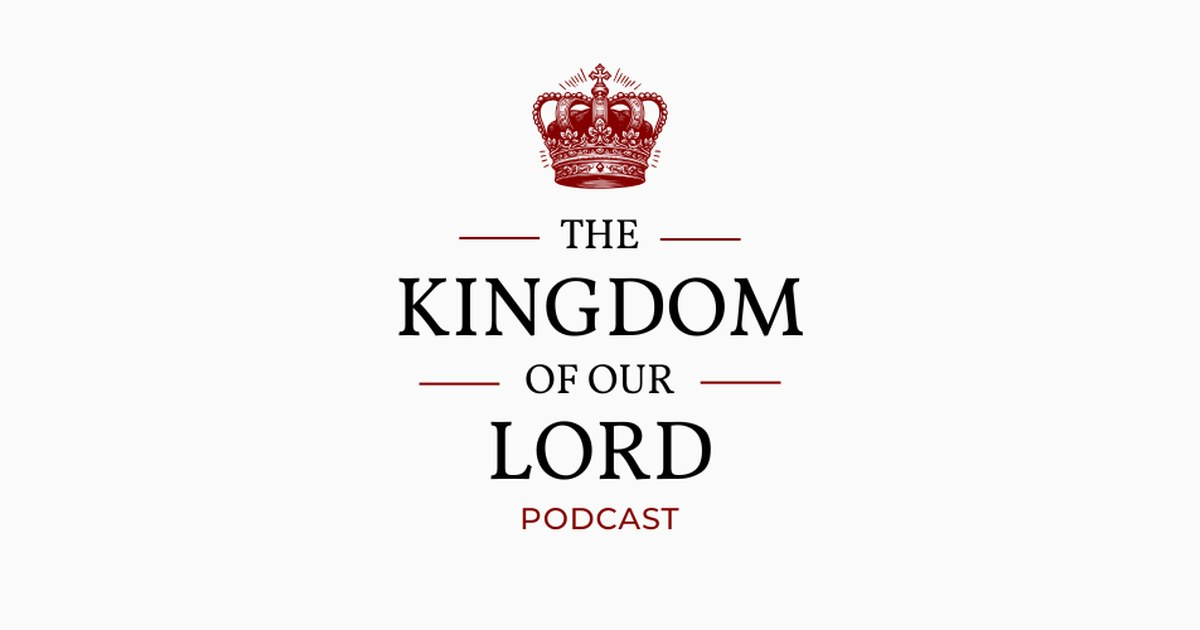
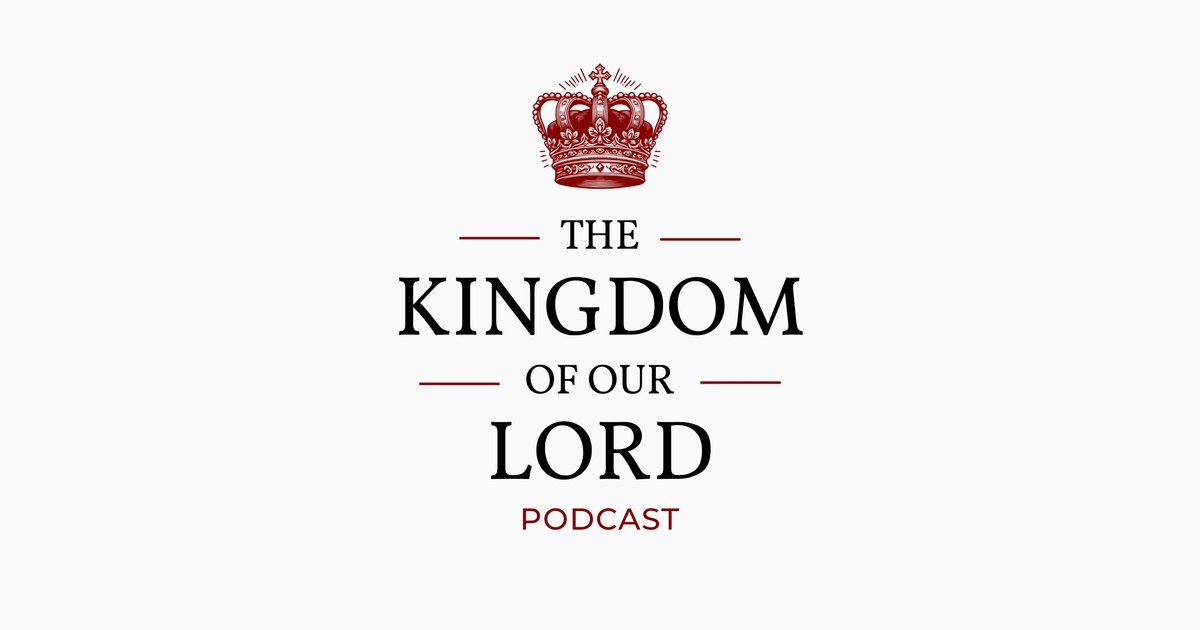
Use Kevin's 1500x1500 podcast cover as-is for The Kingdom of Our Lord feed, home and OG image

diff --git a/scripts/build.py b/scripts/build.py
@@ -61,7 +61,7 @@ def page(path, title, body, desc='', image='/covers/og.jpg', active='', og_type=
 <span class="dim">Lectures recorded at Redemption City Church and the Redemption School of Theology, shared with permission.</span></div></footer>
 <div id="queue" aria-label="Queue"></div>
 <div id="player" role="region" aria-label="Audio player"><div class="wrap">
- <div class="now"><img id="p-cover" alt="" width="52" height="52" src="/covers/kingdom-of-our-lord-1400.jpg"><div><a id="p-title" class="t" href="#">—</a><br><a id="p-series" class="s" href="#"></a></div></div>
+ <div class="now"><img id="p-cover" alt="" width="52" height="52" src="/covers/kingdom-of-our-lord-1500.jpg"><div><a id="p-title" class="t" href="#">—</a><br><a id="p-series" class="s" href="#"></a></div></div>
  <div class="ctl"><button id="p-prev" aria-label="Previous"><svg viewBox="0 0 24 24" fill="currentColor"><path d="M6 5h2v14H6zM20 5v14L9 12z"/></svg></button>
   <button id="p-back" class="skip" aria-label="Back 15 seconds"><svg viewBox="0 0 24 24" fill="none" stroke="currentColor" stroke-width="2"><path d="M3 12a9 9 0 1 0 3-6.7L3 8"/><path d="M3 3v5h5"/><text x="8" y="16" font-size="8" fill="currentColor" stroke="none" font-family="Inter">15</text></svg></button>
   <button id="p-pp" class="pp" aria-label="Play"><svg viewBox="0 0 24 24" fill="currentColor"><path d="M7 4.5v15l13-7.5z"/></svg></button>
@@ -102,7 +102,7 @@ def build_pages():
 <h1>Lectures, recordings &amp; video</h1><p>Every lecture and recording by Kevin R. Amundson in one place: theology and history courses from the Redemption School of Theology, talks, and the ExploreHistory.Live video series. Listen here, or subscribe in any podcast app.</p>
 <div class="actions"><a class="btn" href="/series/">Browse audio</a><a class="btn ghost" href="/video/">Watch video</a><a class="btn ghost" href="/feeds/">Subscribe</a></div>
 <p class="dim" style="font-size:.9rem;margin-top:16px">{len(episodes)} audio recordings · {len(series)} series · {int(total//3600)} hours · {sum(len(v["videos"]) for v in videos)} videos</p></div>
-<a class="podcast-art" href="/feeds/" title="Subscribe to {e_(PODCAST)}"><img src="/covers/kingdom-of-our-lord-1400.jpg" width="260" height="260" alt="{e_(PODCAST)} podcast"><span>Subscribe to the podcast</span></a></section>
+<a class="podcast-art" href="/feeds/" title="Subscribe to {e_(PODCAST)}"><img src="/covers/kingdom-of-our-lord-1500.jpg" width="260" height="260" alt="{e_(PODCAST)} podcast"><span>Subscribe to the podcast</span></a></section>
 <section class="wrap"><h2>Latest recordings</h2><ol class="eps" data-list id="latest">{"".join(ep_li(e, True) for e in latest)}</ol>
 <h2>Audio series</h2><div class="grid">{"".join(series_card(s) for s in series)}</div>
 <h2>Video series</h2><div class="grid">{"".join(video_card(v) for v in videos)}</div></section>'''
@@ -180,7 +180,7 @@ def build_feeds():
         kind = 'serial' if s['id'].startswith('rst-') or s['id'] == 'pentateuch' else 'episodic'
         feed(s['feed'], f"{PODCAST}: {s['title']}", s['description'] + ' Lectures by Kevin R. Amundson.', s['eps'], s['cover'], s['url'], s['category'], kind)
     feed('/feeds/all.xml', PODCAST, 'Every lecture and recording by Kevin R. Amundson: Redemption School of Theology courses in theology and history, Sunday school, and talks.',
-         sorted(episodes, key=lambda e: e['date']), '/covers/kingdom-of-our-lord-1400.jpg', '/', 'Christianity')
+         sorted(episodes, key=lambda e: e['date']), '/covers/kingdom-of-our-lord-1500.jpg', '/', 'Christianity')
 
 def build_misc():
     urls = ['/', '/series/', '/video/', '/feeds/', '/search/'] + [s['url'] for s in series] + [e['url'] for e in episodes] + [f'/video/{v["id"]}/' for v in videos]

diff --git a/scripts/covers.py b/scripts/covers.py
@@ -1,5 +1,5 @@
 """Generate podcast cover art (1400x1400 JPEG) for each series plus a default OG image."""
-import json, os, textwrap
+import json, os, shutil, textwrap
 from PIL import Image, ImageDraw, ImageFont
 ROOT = os.path.dirname(os.path.dirname(os.path.abspath(__file__)))
 F = os.path.join(ROOT, 'static', 'fonts')
@@ -49,10 +49,9 @@ if __name__ == '__main__':
     for s in series:
         kicker = 'Redemption School of Theology' if s['id'].startswith('rst-') else 'Lectures & Recordings'
         cover(s['title'], kicker, s['subtitle'].split(' · ')[-1], os.path.join(OUT, s['id'] + '.jpg'))
-    # Official podcast cover (supplied by Kevin as 500x500); Apple needs >=1400px, so upscale with Lanczos.
-    src = Image.open(os.path.join(ROOT, 'static', 'brand', 'kingdom-cover-original.png')).convert('RGB')
-    art = src.resize((1400, 1400), Image.LANCZOS)
-    art.save(os.path.join(OUT, 'kingdom-of-our-lord-1400.jpg'), 'JPEG', quality=92, optimize=True, progressive=True)
+    # Official podcast cover supplied by Kevin (1500x1500 RGB JPEG), used as-is.
+    shutil.copyfile(os.path.join(ROOT, 'static', 'brand', 'kingdom-cover-1500.jpg'), os.path.join(OUT, 'kingdom-of-our-lord-1500.jpg'))
+    src = Image.open(os.path.join(ROOT, 'static', 'brand', 'kingdom-cover-1500.jpg')).convert('RGB')
     # 1200x630 social image: the podcast cover centered on its own off-white background
     im = Image.new('RGB', (1200, 630), src.getpixel((4, 4)))
     im.paste(src.resize((630, 630), Image.LANCZOS), (285, 0))
